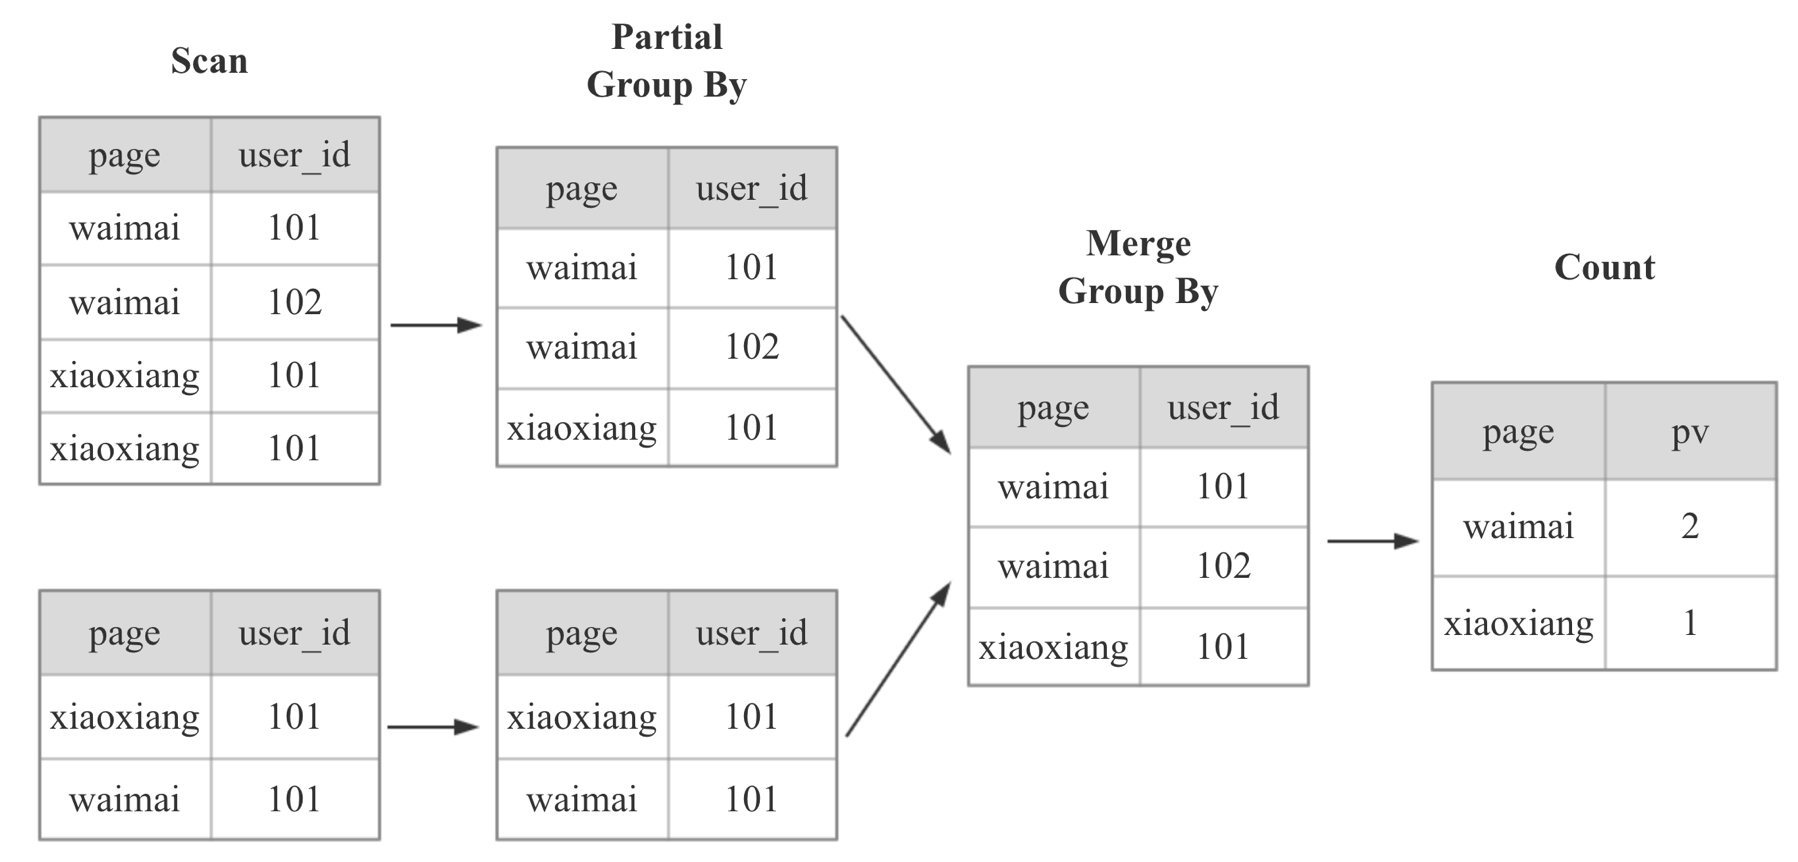
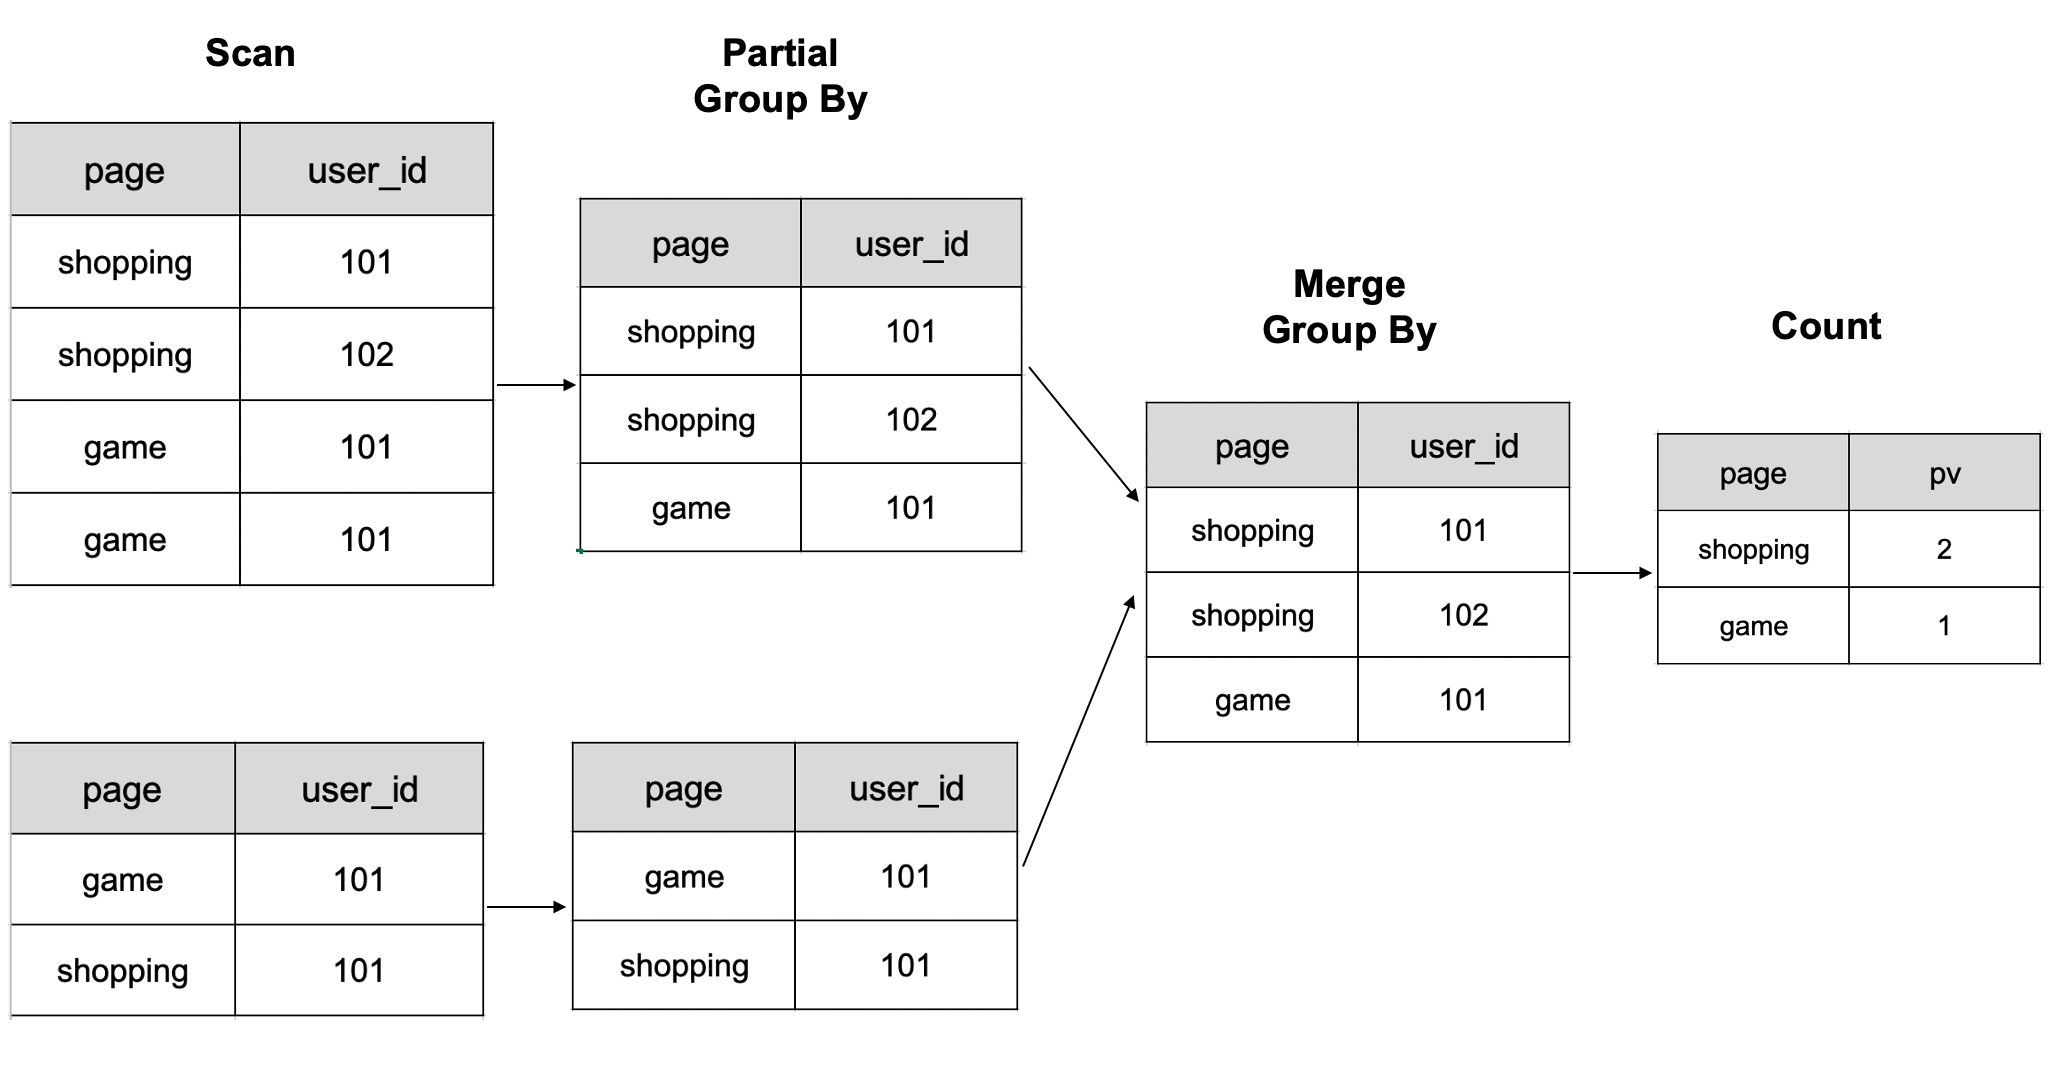
[Doc] update bitmap description and figure (#26892)

diff --git a/docs/using_starrocks/Using_bitmap.md b/docs/using_starrocks/Using_bitmap.md
@@ -1,73 +1,64 @@
-# Use Bitmap for exact count distinct
+# Use Bitmap for exact Count Distinct
 
-## Background
+This topic describes how to use bitmaps to compute the number of distinct values in StarRocks.
 
-There are usually two ways to conduct accurate Count Distinct in StarRocks.
+Bitmaps are a useful tool for computing the number of distinct values in an array. This method takes up less storage space and can accelerate computation when compared to traditional Count Distinct. Assume there is an array named A with a value range of [0, n). By using a bitmap of (n+7)/8 bytes, you can compute the number of distinct elements in the array. To do this, initialize all bits to 0, set the values of the elements as the subscripts of bits, and then set all bits to 1. The number of 1s in the bitmap is the number of distinct elements in the array.
 
-* Detail-based Count Distinct: This is a traditional count distinct approach that is able to retain detailed data for flexible analysis. However, it consumes huge computational and storage resources and is not friendly enough to support scenarios involving large-scale datasets and query latency-sensitive Count Distinct.
-* Precomputation-based Count Distinct: This approach is also recommended by StarRocks. In some scenarios, users only want to get the results after Count Distinct and care less about detailed data. Such a scenario can be analyzed by precomputation, which is essentially using space for time and resonates with the core idea of the multidimensional OLAP (MOLAP) aggregation model. It is to calculate data in the process of data loading, reducing the storage cost and the cost of on-site calculation during query. You can further reduce the size of datasets for on-site computation by shrinking RollUp dimension.
+## Traditional Count Distinct
 
-## Traditional Count Distinct Calculation
+StarRocks uses the MPP architecture, which can retain the detailed data when using Count Distinct. However, the Count Distinct feature requires multiple data shuffles during query processing, which consumes more resources and results in a linear decrease in performance as the data volume increases.
 
-StarRocks is implemented based on the MPP architecture that supports retaining detailed data when using count distinct calculation for accurate Count Distinct. However, because of the need for multiple data shuffles (transferring data across nodes and calculating de-weighting) during query, it leads to a linear decrease in performance as the data volume increases.
-
-In the following scenario, there are tables (dt, page, user_id) that need to calculate UV by detailed data.
+The following scenario calculates UVs based on detailed data in table (dt, page, user_id).
 
 |  dt   |   page  | user_id |
 | :---: | :---: | :---:|
 |   20191206  |   game  | 101 |
-|   20191206  |   shopping  | 101 |
+|   20191206  |   shopping  | 102 |
 |   20191206  |   game  | 101 |
 |   20191206  |   shopping  | 101 |
 |   20191206  |   game  | 101 |
-|   20191206  |   shopping  | 101 |
+|   20191206  |   game  | 101 |
 
-Count `uv` grouping by `page`
+StarRocks computes data according to the following figure. It first groups data by the `page` and `user_id` columns, and then counts the processed result.
+
+![alter](../assets/6.1.2-2.png)
+
+* Note: The figure shows a schematic of 6 rows of data computed on two BE nodes.
+
+When dealing with large volumes of data that require multiple shuffle operations, the computational resources needed can increase significantly. This slows queries. However, using the Bitmap technology can help address this issue and improve the query performance in such scenarios.
+
+Count `uv` grouping by `page`:
+
+```sql
+select page, count(distinct user_id) as uv from table group by page;
 
 |  page   |   uv  |
 | :---: | :---: |
 |   game  |  1   |
 |   shopping  |   2  |
-
-```sql
- select page, count(distinct user_id) as uv from table group by page;
 ```
 
-For the SQL of PV calculation, StarRocks will do the calculation according to the following figure. First, group by the page column and user_id column, and then count.
+## Benefits of Count Distinct with Bitmap
 
-![alter](../assets/6.1.2-2.png)
+You can benefit from bitmaps in the following aspects compared with COUNT(DISTINCT expr):
 
-* Note: The figure shows a schematic of 6 rows of data computed on 2 BE nodes
+* Less storage space: If you use bitmap to compute the number of distinct values for INT32 data, the required storage space is only 1/32 of COUNT(DISTINCT expr). StarRocks utilizes compressed roaring bitmaps to execute computations, further reducing storage space usage compared to traditional bitmaps.
+* Faster computation: Bitmaps use bitwise operations, resulting in faster computation compared to COUNT(DISTINCT expr). In StarRocks, the computation of the number of distinct values can be processed in parallel, leading to further improvements in query performance.
 
-Given that the data needs to be shuffled several times, it will require more computational resources and the query will be slower when the data volume gets larger. The Bitmap technology is used to  solve the performance problem of traditional count distinct calculation in such scenarios.
+For the implementation of Roaring Bitmap, see [specific paper and implementation](https://github.com/RoaringBitmap/RoaringBitmap).
+
+## Usage notes
+
+* Both bitmap indexing and bitmap Count Distinct use the bitmap technique. However, the purpose for introducing them and the problem they solve are completely different. The former is used to filter enumerated columns with a low cardinality, while the latter is used to calculate the number of distinct elements in the value columns of a data row.
+* StarRocks 2.3 and later versions support defining a value column as BITMAP regardless of the table types (Aggregate table, Duplicate Key table, Primary Key table, or Unique Key table). However, the [sort key](../table_design/Sort_key.md) of a table cannot be of the BITMAP type.
+* When creating a table, you can define the value column as BITMAP and the aggregate function as [BITMAP_UNION](../sql-reference/sql-functions/bitmap-functions/bitmap_union.md).
+* You can only use roaring bitmaps to compute the number of distinct values for data of the following types: TINYINT, SMALLINT, INT, and BIGINT. For data of other types, you need to [build global dictionaries](#global-dictionary).
 
 ## Count Distinct with Bitmap
 
-Assume there is array A with values in the range [0, n). A bitmap of byte length `floor((n+7)/8)` can be used to de-duplicate the array.
-
-1. Initialize the bitmap to all zeros.
-2. Process elements in the array one by one and use the value of the elements as the subscript of the bitmap. Set the bit of the subscript to 1.
-3. Count the number of 1s in the bitmap. The number of 1s is the result of count distinct of array A.
-
-## Advantages of bitmap Count Distinct
-
-1. Space advantage: Using one bit of a bitmap to indicate the existence of the corresponding subscript has a great space advantage. For example, for int32 Count Distinct, the storage space required by a normal bitmap is only 1/32 of the traditional Count Distinct. The implementation of Roaring Bitmap in StarRocks further significantly reduces storage usage through optimizing sparse bitmaps.
-2. Time advantage: Bitmap Count Distinct involves computation such as bit placement for a given subscript and counting the number of placed bitmaps, which are O(1) and O(n) operations respectively. The latter can be computed efficiently using clz, ctz and other instructions. In addition, bitmap Count Distinct can be accelerated in parallel in the MPP execution engine, where each computing node computes a local sub-bitmap and uses the bit_or function to merge all sub-bitmaps into a final bitmap. bit_or is more efficient than sort-based or hash-based Count Distinct in that it has no condition or data dependencies and supports vectorized execution.
-
-For details of the implementation of Roaring Bitmap, see [specific paper and implementation](https://github.com/RoaringBitmap/RoaringBitmap).
-
-## How to Use Bitmap
-
-1. Both bitmap indexing and bitmap Count Distinct use the bitmap technique. However, the purpose for introducing them and the problem they solve are completely different. The former is used to filter enumerated columns with a low cardinality, while the latter is used to calculate the number of distinct elements in the value columns of a data row.
-2. Currently, bitmap columns can only exist in Aggregate tables, not in Duplicate Key or Unique Key tables.
-3. When creating a table, specify the data type of the value column as BITMAP and the aggregate function as `BITMAP_UNION`.
-4. When using count distinct on a Bitmap column, StarRocks automatically converts count distinct to BITMAP_UNION_COUNT.
-
-### Examples
-
 Take the calculation of page UVs as an example.
 
-1. Create a table with a BITMAP column `visit_users`, which uses the aggregate function `BITMAP_UNION`.
+1. Create an Aggregate table with a BITMAP column `visit_users`, which uses the aggregate function BITMAP_UNION.
 
     ```sql
     CREATE TABLE `page_uv` (
@@ -85,10 +76,10 @@ Take the calculation of page UVs as an example.
 
 2. Load data into this table.
 
-   Use INSET INTO to load data:
+    Use INSET INTO to load data:
 
     ```sql
-    insert into page_uv values
+    INSERT INTO page_uv VALUES
     (1, '2020-06-23 01:30:30', to_bitmap(13)),
     (1, '2020-06-23 01:30:30', to_bitmap(23)),
     (1, '2020-06-23 01:30:30', to_bitmap(33)),
@@ -96,10 +87,10 @@ Take the calculation of page UVs as an example.
     (2, '2020-06-23 01:30:30', to_bitmap(23));
     ```
 
-    After data loading:
+    After data is loaded:
 
     * In the row `page_id = 1, visit_date = '2020-06-23 01:30:30'`, the `visit_user` field contains three bitmap elements (13, 23, 33).
-    * In the row `page_id = 1, visit_date = '2020-06-23 02:30 :30'`, the `visit_user` field contains one bitmap element (13).
+    * In the row `page_id = 1, visit_date = '2020-06-23 02:30:30'`, the `visit_user` field contains one bitmap element (13).
     * In the row `page_id = 2, visit_date = '2020-06-23 01:30:30'`, the `visit_user` field contains one bitmap element (23).
 
    Load data from a local file:
@@ -110,25 +101,12 @@ Take the calculation of page UVs as an example.
         -H "column_separator:," \
         -H "columns:page_id,visit_date,visit_users, visit_users=to_bitmap(visit_users)" -T tmp.csv \
         http://StarRocks_be0:8040/api/db0/page_uv/_stream_load
-    1,2020-06-23 01:30:30,130
-    1,2020-06-23 01:30:30,230
-    1,2020-06-23 01:30:30,120
-    1,2020-06-23 02:30:30,133
-    2,2020-06-23 01:30:30,234
-    DONE
     ```
 
-3. Calculate page UV.
+3. Calculate page UVs.
 
     ```sql
-    select page_id, count(distinct visit_users) from page_uv group by page_id;
-    ```
-
-4. Query Results.
-
-    ```sql
-    mysql> select page_id, count(distinct visit_users) from page_uv group by page_id;
-
+    SELECT page_id, count(distinct visit_users) FROM page_uv GROUP BY page_id;
     +-----------+------------------------------+
     |  page_id  | count(DISTINCT `visit_user`) |
     +-----------+------------------------------+
@@ -138,11 +116,11 @@ Take the calculation of page UVs as an example.
     2 row in set (0.00 sec)
     ```
 
-## Bitmap Global Dictionary
+## Global Dictionary
 
 Currently, Bitmap-based Count Distinct mechanism requires the input to be integer. If the user needs to use other data types as input to the Bitmap, then the user needs to build their own global dictionary to map other types of data (such as string types) to integer types. There are several ideas for building a global dictionary.
 
-### Hive Table-based Global Dictionary
+### Hive table-based Global Dictionary
 
 The global dictionary itself in this scheme is a Hive table, which has two columns, one for raw values and one for encoded Int values. The steps to generate the global dictionary are as follows:
 
